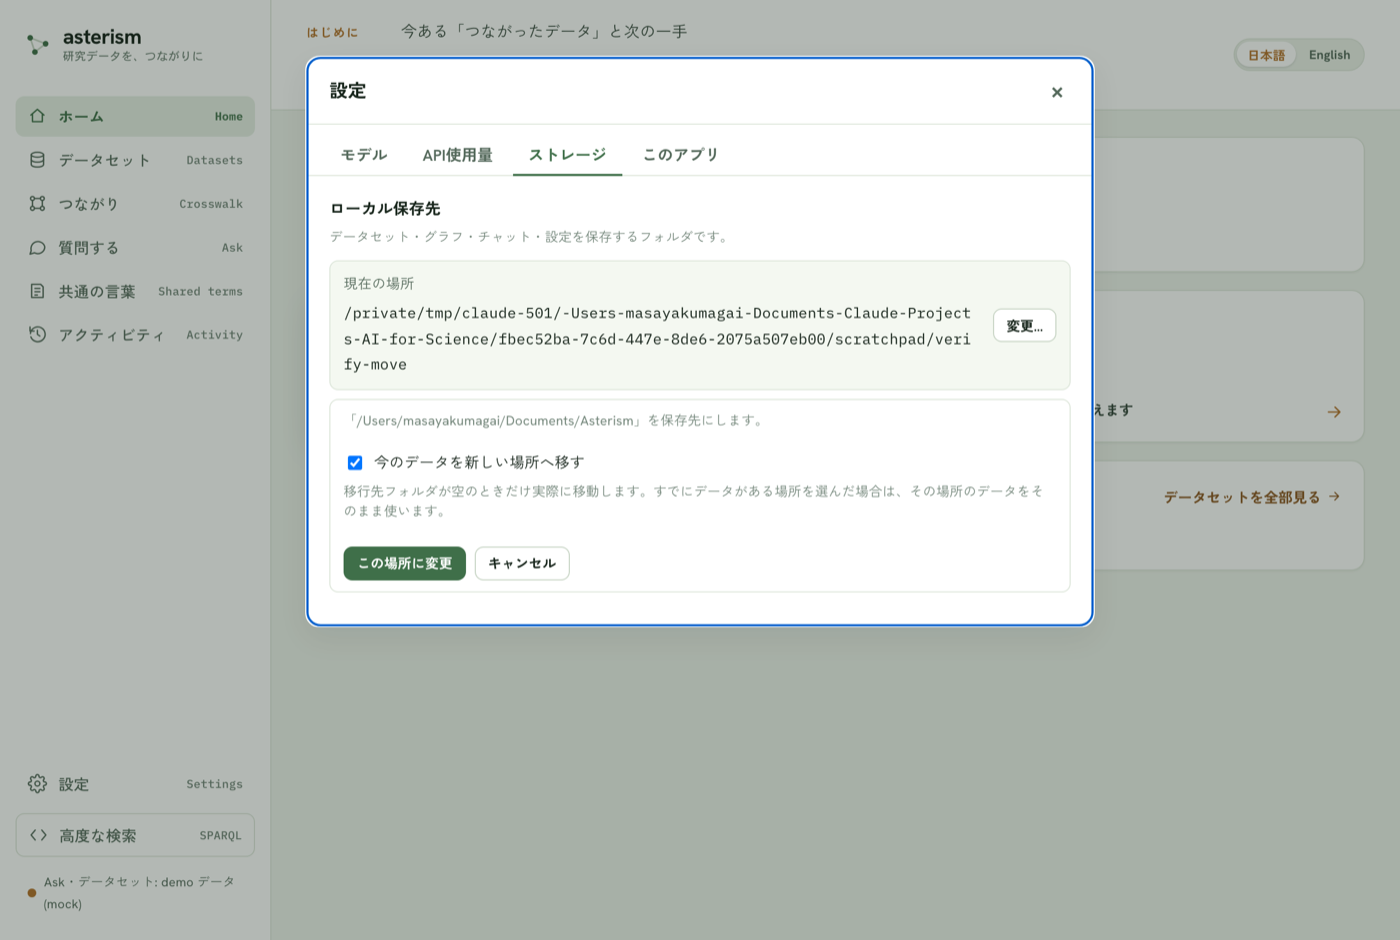
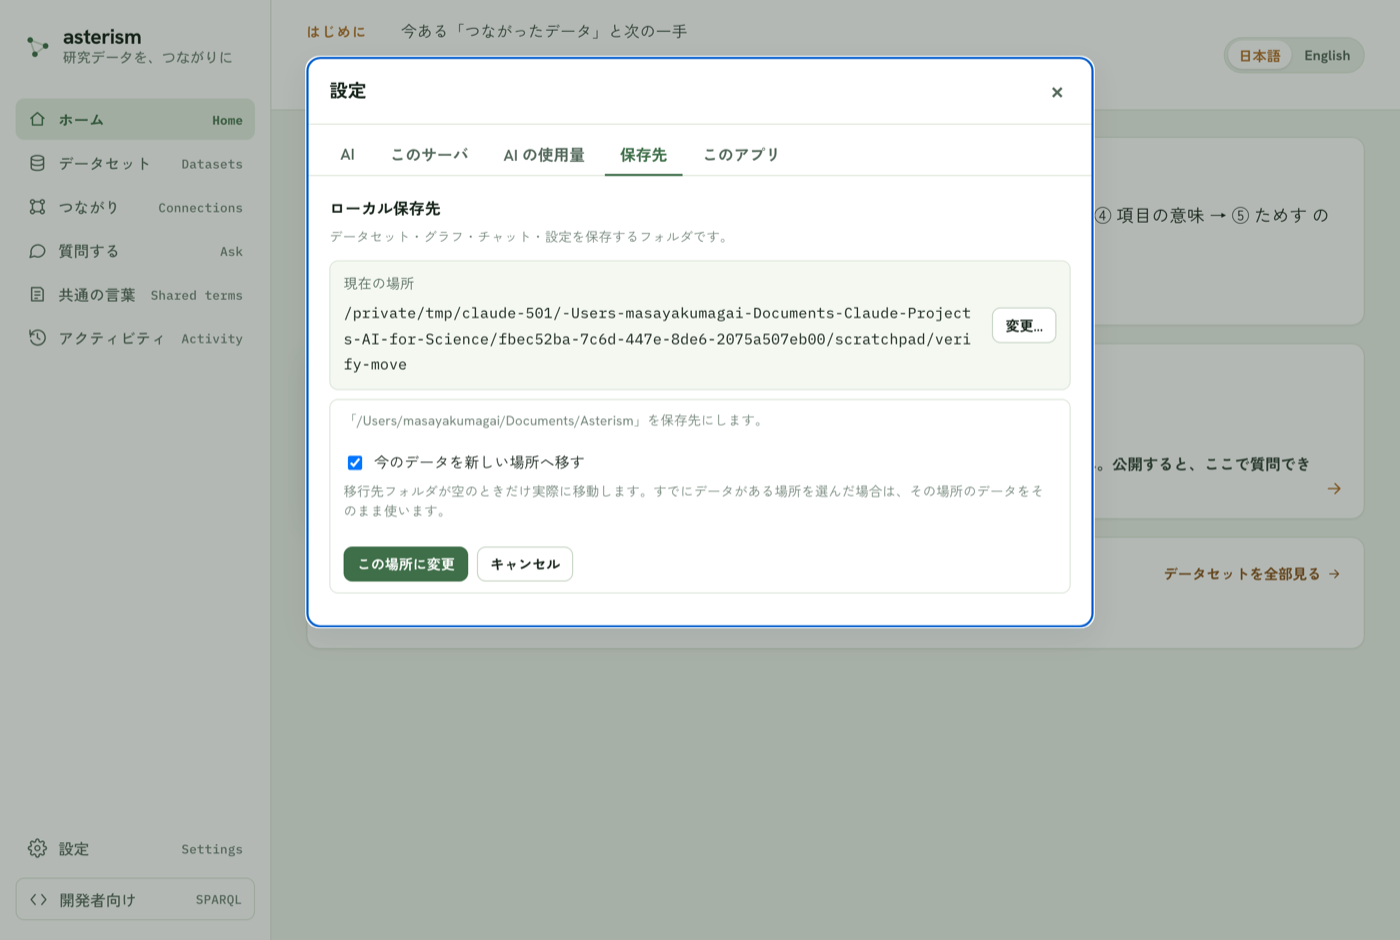
docs: 保存先タブの画面を撮り直す — #389 でタブ名と設定画面が変わったため

diff --git a/desktop/src-tauri/src/lib.rs b/desktop/src-tauri/src/lib.rs
@@ -1693,6 +1693,7 @@ mod tests {
         assert_eq!(card.detail, "exit: 1");
         assert!(!card.detail_open);
         assert_eq!(card.actions, vec!["retry", "quit"]);
+    }
 
     // Tests for the boot-time data-home move (ADR `app-data-on-disk.md`
     // D9). This moves the user's actual data, so every failure path must be
